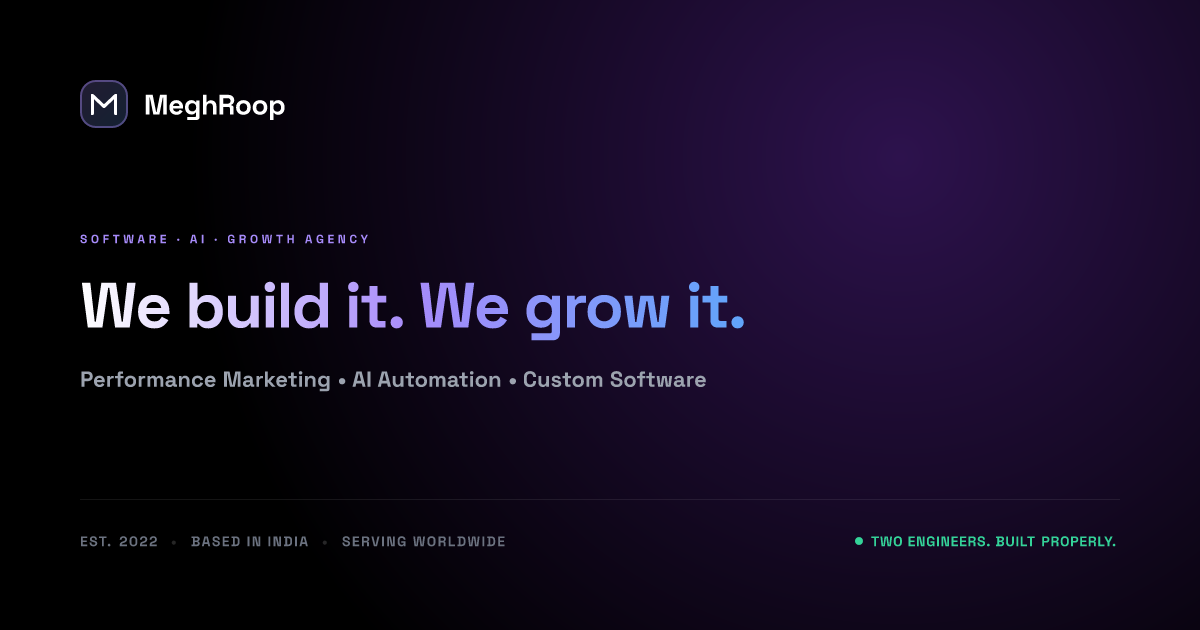
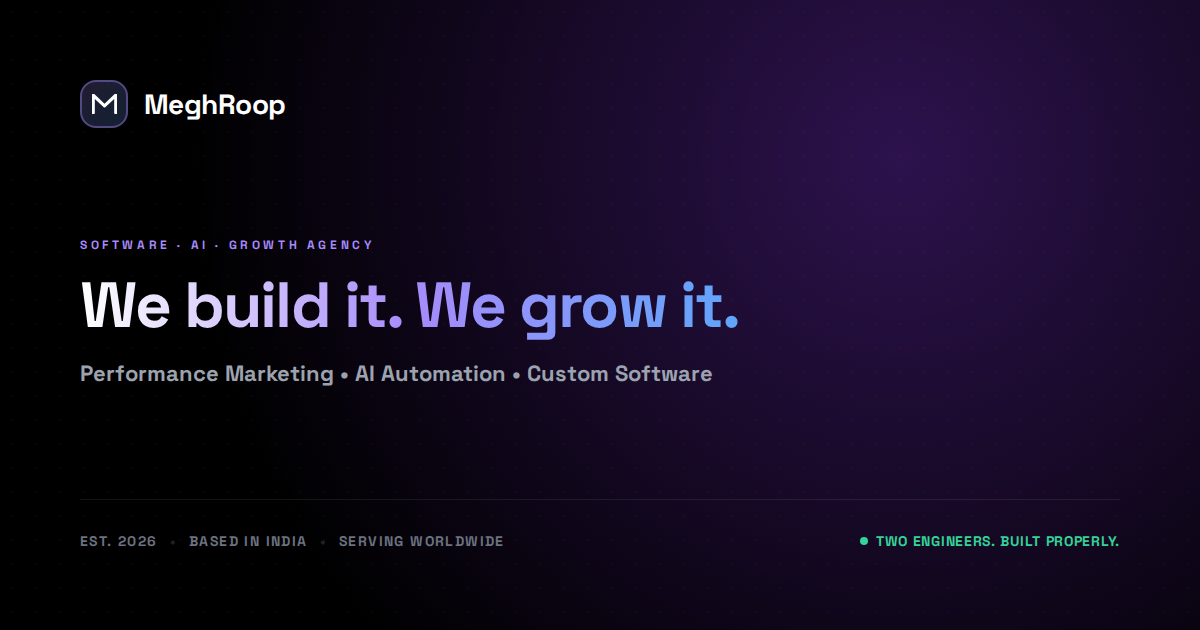
Update founding year 2022 → 2026 across site + regenerate OG/social share images
- opengraph-image.tsx, JsonLd schema, 6 service-page schemas, chatbot, MCPCTA, About
- Regenerate og-image (png/jpg), add og-twitter/og-square/og-story + page-specific OG variants (Est. 2026)

diff --git a/components/sections/About.tsx b/components/sections/About.tsx
@@ -54,12 +54,12 @@ export default function About() {
           {/* Stat — Years */}
           <StatCard
             icon={Clock}
-            value="2+"
-            label="Years in"
-            sub="Started in 2022. Not slowing down."
+            value="New"
+            label="Just getting started"
+            sub="Started in 2026. Full conviction."
             gradient="from-purple-500/20 to-blue-500/20"
             iconColor="text-purple-400"
-            bullets={['2022 — One laptop, zero clients, full conviction', '2023 — 15 projects shipped, 0 refunds', '2024 — 30+ and genuinely enjoying it']}
+            bullets={['2026 — One laptop, zero clients, full conviction', 'Building brands that need a presence', 'Building products that need a brain']}
           />
 
           {/* Stat — Projects */}

diff --git a/components/common/JsonLd.tsx b/components/common/JsonLd.tsx
@@ -12,10 +12,10 @@ const organizationSchema = {
   logo: `${SITE_URL}/favicon-512.png`,
   email: '[email redacted]',
   telephone: '[phone redacted]',
-  foundingDate: '2022',
+  foundingDate: '2026',
   slogan: 'From awareness to automation. From code to customers.',
   description:
-    'MeghRoop is a Growth, AI and Software agency. We help businesses grow through performance marketing (Meta Ads, Google Ads, SEO, social media, content), AI agents and automation (n8n, WhatsApp, CRM), custom software and SaaS development, Shopify and WordPress development, and branding and creative. Founded in 2022, based in India, serving clients worldwide.',
+    'MeghRoop is a Growth, AI and Software agency. We help businesses grow through performance marketing (Meta Ads, Google Ads, SEO, social media, content), AI agents and automation (n8n, WhatsApp, CRM), custom software and SaaS development, Shopify and WordPress development, and branding and creative. Founded in 2026, based in India, serving clients worldwide.',
   numberOfEmployees: { '@type': 'QuantitativeValue', value: 2 },
   founder: [
     {

diff --git a/app/ai-agents/agentic-automation/layout.tsx b/app/ai-agents/agentic-automation/layout.tsx
@@ -27,7 +27,7 @@ export default function Layout({ children }: { children: React.ReactNode }) {
       
       <script
         type="application/ld+json"
-        dangerouslySetInnerHTML={{ __html: JSON.stringify({"@context":"https://schema.org","@type":"Service","serviceType":"Agentic process automation","name":"Agentic Process Automation","description":"AI agents that reason through exceptions, read unstructured data, and handle the messy stuff your team shouldn't be doing manually.","provider":{"@type":"Organization","name":"MeghRoop","url":"https://meghroop.tech","email":"[email redacted]","telephone":"[phone redacted]","address":{"@type":"PostalAddress","streetAddress":"Jhotwara","addressLocality":"Jaipur","addressRegion":"Rajasthan","postalCode":"302012","addressCountry":"IN"},"foundingDate":"2022"},"areaServed":"Worldwide","url":"https://meghroop.tech/agentic-automation"}) }}
+        dangerouslySetInnerHTML={{ __html: JSON.stringify({"@context":"https://schema.org","@type":"Service","serviceType":"Agentic process automation","name":"Agentic Process Automation","description":"AI agents that reason through exceptions, read unstructured data, and handle the messy stuff your team shouldn't be doing manually.","provider":{"@type":"Organization","name":"MeghRoop","url":"https://meghroop.tech","email":"[email redacted]","telephone":"[phone redacted]","address":{"@type":"PostalAddress","streetAddress":"Jhotwara","addressLocality":"Jaipur","addressRegion":"Rajasthan","postalCode":"302012","addressCountry":"IN"},"foundingDate":"2026"},"areaServed":"Worldwide","url":"https://meghroop.tech/agentic-automation"}) }}
       />
       {children}
     </>

diff --git a/app/ai-agents/ai-integration/layout.tsx b/app/ai-agents/ai-integration/layout.tsx
@@ -27,7 +27,7 @@ export default function Layout({ children }: { children: React.ReactNode }) {
       
       <script
         type="application/ld+json"
-        dangerouslySetInnerHTML={{ __html: JSON.stringify({"@context":"https://schema.org","@type":"Service","name":"AI Integration Services","description":"We integrate AI into your existing CRM, ERP, helpdesk, and collaboration tools. MCP servers, API connections, and intelligent automation — without replacing your stack.","provider":{"@type":"Organization","name":"MeghRoop","url":"https://meghroop.tech","email":"[email redacted]","telephone":"[phone redacted]","address":{"@type":"PostalAddress","streetAddress":"Jhotwara","addressLocality":"Jaipur","addressRegion":"Rajasthan","postalCode":"302012","addressCountry":"IN"},"foundingDate":"2022"},"serviceType":"AI Integration & Automation","areaServed":"Worldwide","hasOfferCatalog":{"@type":"OfferCatalog","name":"AI Integration Services","itemListElement":[{"@type":"Offer","itemOffered":{"@type":"Service","name":"CRM AI Integration"}},{"@type":"Offer","itemOffered":{"@type":"Service","name":"ERP AI Integration"}},{"@type":"Offer","itemOffered":{"@type":"Service","name":"MCP Server Development"}},{"@type":"Offer","itemOffered":{"@type":"Service","name":"Legacy System AI Bridge"}}]}}) }}
+        dangerouslySetInnerHTML={{ __html: JSON.stringify({"@context":"https://schema.org","@type":"Service","name":"AI Integration Services","description":"We integrate AI into your existing CRM, ERP, helpdesk, and collaboration tools. MCP servers, API connections, and intelligent automation — without replacing your stack.","provider":{"@type":"Organization","name":"MeghRoop","url":"https://meghroop.tech","email":"[email redacted]","telephone":"[phone redacted]","address":{"@type":"PostalAddress","streetAddress":"Jhotwara","addressLocality":"Jaipur","addressRegion":"Rajasthan","postalCode":"302012","addressCountry":"IN"},"foundingDate":"2026"},"serviceType":"AI Integration & Automation","areaServed":"Worldwide","hasOfferCatalog":{"@type":"OfferCatalog","name":"AI Integration Services","itemListElement":[{"@type":"Offer","itemOffered":{"@type":"Service","name":"CRM AI Integration"}},{"@type":"Offer","itemOffered":{"@type":"Service","name":"ERP AI Integration"}},{"@type":"Offer","itemOffered":{"@type":"Service","name":"MCP Server Development"}},{"@type":"Offer","itemOffered":{"@type":"Service","name":"Legacy System AI Bridge"}}]}}) }}
       />
       {children}
     </>

diff --git a/app/ai-agents/ai-strategy-audit/layout.tsx b/app/ai-agents/ai-strategy-audit/layout.tsx
@@ -27,7 +27,7 @@ export default function Layout({ children }: { children: React.ReactNode }) {
       
       <script
         type="application/ld+json"
-        dangerouslySetInnerHTML={{ __html: JSON.stringify({"@context":"https://schema.org","@type":"Service","name":"AI Strategy & Readiness Audit","description":"A 3-week deep-dive into your business, data, and workflows. We map where AI actually fits, score use cases by ROI, and deliver a prioritized 90-day roadmap.","provider":{"@type":"Organization","name":"MeghRoop","url":"https://meghroop.tech","email":"[email redacted]","telephone":"[phone redacted]","address":{"@type":"PostalAddress","streetAddress":"Jhotwara","addressLocality":"Jaipur","addressRegion":"Rajasthan","postalCode":"302012","addressCountry":"IN"},"foundingDate":"2022"},"serviceType":"AI readiness audit","areaServed":"Worldwide","hasOfferCatalog":{"@type":"OfferCatalog","name":"AI Audit Services","itemListElement":[{"@type":"Offer","itemOffered":{"@type":"Service","name":"Workflow Mapping"}},{"@type":"Offer","itemOffered":{"@type":"Service","name":"Data Readiness Check"}},{"@type":"Offer","itemOffered":{"@type":"Service","name":"Use-Case Scoring"}},{"@type":"Offer","itemOffered":{"@type":"Service","name":"90-Day Roadmap"}}]}}) }}
+        dangerouslySetInnerHTML={{ __html: JSON.stringify({"@context":"https://schema.org","@type":"Service","name":"AI Strategy & Readiness Audit","description":"A 3-week deep-dive into your business, data, and workflows. We map where AI actually fits, score use cases by ROI, and deliver a prioritized 90-day roadmap.","provider":{"@type":"Organization","name":"MeghRoop","url":"https://meghroop.tech","email":"[email redacted]","telephone":"[phone redacted]","address":{"@type":"PostalAddress","streetAddress":"Jhotwara","addressLocality":"Jaipur","addressRegion":"Rajasthan","postalCode":"302012","addressCountry":"IN"},"foundingDate":"2026"},"serviceType":"AI readiness audit","areaServed":"Worldwide","hasOfferCatalog":{"@type":"OfferCatalog","name":"AI Audit Services","itemListElement":[{"@type":"Offer","itemOffered":{"@type":"Service","name":"Workflow Mapping"}},{"@type":"Offer","itemOffered":{"@type":"Service","name":"Data Readiness Check"}},{"@type":"Offer","itemOffered":{"@type":"Service","name":"Use-Case Scoring"}},{"@type":"Offer","itemOffered":{"@type":"Service","name":"90-Day Roadmap"}}]}}) }}
       />
       {children}
     </>

diff --git a/app/ai-agents/ai-voice-agents/layout.tsx b/app/ai-agents/ai-voice-agents/layout.tsx
@@ -27,7 +27,7 @@ export default function Layout({ children }: { children: React.ReactNode }) {
       
       <script
         type="application/ld+json"
-        dangerouslySetInnerHTML={{ __html: JSON.stringify({"@context":"https://schema.org","@type":"Service","name":"AI Voice Agents","description":"Human-sounding AI voice agents for inbound support, outbound qualification, appointment booking, and collections. 24/7 availability in Hindi, English, and regional languages with sub-second response times.","provider":{"@type":"Organization","name":"MeghRoop","url":"https://meghroop.tech","email":"[email redacted]","telephone":"[phone redacted]","address":{"@type":"PostalAddress","streetAddress":"Jhotwara","addressLocality":"Jaipur","addressRegion":"Rajasthan","postalCode":"302012","addressCountry":"IN"},"foundingDate":"2022"},"areaServed":{"@type":"Place","name":"Worldwide"},"serviceType":"AI Voice Agent Development","hasOfferCatalog":{"@type":"OfferCatalog","name":"AI Voice Agent Services","itemListElement":[{"@type":"Offer","itemOffered":{"@type":"Service","name":"Inbound Support Voice Agents"}},{"@type":"Offer","itemOffered":{"@type":"Service","name":"Appointment Booking Voice Agents"}},{"@type":"Offer","itemOffered":{"@type":"Service","name":"Lead Qualification Voice Agents"}},{"@type":"Offer","itemOffered":{"@type":"Service","name":"Collections Voice Agents"}},{"@type":"Offer","itemOffered":{"@type":"Service","name":"Outbound Survey Voice Agents"}}]}}) }}
+        dangerouslySetInnerHTML={{ __html: JSON.stringify({"@context":"https://schema.org","@type":"Service","name":"AI Voice Agents","description":"Human-sounding AI voice agents for inbound support, outbound qualification, appointment booking, and collections. 24/7 availability in Hindi, English, and regional languages with sub-second response times.","provider":{"@type":"Organization","name":"MeghRoop","url":"https://meghroop.tech","email":"[email redacted]","telephone":"[phone redacted]","address":{"@type":"PostalAddress","streetAddress":"Jhotwara","addressLocality":"Jaipur","addressRegion":"Rajasthan","postalCode":"302012","addressCountry":"IN"},"foundingDate":"2026"},"areaServed":{"@type":"Place","name":"Worldwide"},"serviceType":"AI Voice Agent Development","hasOfferCatalog":{"@type":"OfferCatalog","name":"AI Voice Agent Services","itemListElement":[{"@type":"Offer","itemOffered":{"@type":"Service","name":"Inbound Support Voice Agents"}},{"@type":"Offer","itemOffered":{"@type":"Service","name":"Appointment Booking Voice Agents"}},{"@type":"Offer","itemOffered":{"@type":"Service","name":"Lead Qualification Voice Agents"}},{"@type":"Offer","itemOffered":{"@type":"Service","name":"Collections Voice Agents"}},{"@type":"Offer","itemOffered":{"@type":"Service","name":"Outbound Survey Voice Agents"}}]}}) }}
       />
       {children}
     </>

diff --git a/app/ai-agents/custom-ai-agents/layout.tsx b/app/ai-agents/custom-ai-agents/layout.tsx
@@ -27,7 +27,7 @@ export default function Layout({ children }: { children: React.ReactNode }) {
       
       <script
         type="application/ld+json"
-        dangerouslySetInnerHTML={{ __html: JSON.stringify({"@context":"https://schema.org","@type":"Service","name":"Custom AI Agent Development","description":"Bespoke AI agents that reason, plan, and execute — wired into your tools, your data, and your real workflows. Production-grade systems with guardrails, fallback logic, and human-in-the-loop gates.","provider":{"@type":"Organization","name":"MeghRoop","url":"https://meghroop.tech","email":"[email redacted]","telephone":"[phone redacted]","address":{"@type":"PostalAddress","streetAddress":"Jhotwara","addressLocality":"Jaipur","addressRegion":"Rajasthan","postalCode":"302012","addressCountry":"IN"},"foundingDate":"2022"},"serviceType":"AI Agent Development","areaServed":"Worldwide","hasOfferCatalog":{"@type":"OfferCatalog","name":"AI Agent Services","itemListElement":[{"@type":"Offer","itemOffered":{"@type":"Service","name":"Sales Research Agent"}},{"@type":"Offer","itemOffered":{"@type":"Service","name":"Support Resolution Agent"}},{"@type":"Offer","itemOffered":{"@type":"Service","name":"Data Processing Agent"}},{"@type":"Offer","itemOffered":{"@type":"Service","name":"Internal Ops Agent"}},{"@type":"Offer","itemOffered":{"@type":"Service","name":"Research & Analysis Agent"}},{"@type":"Offer","itemOffered":{"@type":"Service","name":"Content Intelligence Agent"}}]}}) }}
+        dangerouslySetInnerHTML={{ __html: JSON.stringify({"@context":"https://schema.org","@type":"Service","name":"Custom AI Agent Development","description":"Bespoke AI agents that reason, plan, and execute — wired into your tools, your data, and your real workflows. Production-grade systems with guardrails, fallback logic, and human-in-the-loop gates.","provider":{"@type":"Organization","name":"MeghRoop","url":"https://meghroop.tech","email":"[email redacted]","telephone":"[phone redacted]","address":{"@type":"PostalAddress","streetAddress":"Jhotwara","addressLocality":"Jaipur","addressRegion":"Rajasthan","postalCode":"302012","addressCountry":"IN"},"foundingDate":"2026"},"serviceType":"AI Agent Development","areaServed":"Worldwide","hasOfferCatalog":{"@type":"OfferCatalog","name":"AI Agent Services","itemListElement":[{"@type":"Offer","itemOffered":{"@type":"Service","name":"Sales Research Agent"}},{"@type":"Offer","itemOffered":{"@type":"Service","name":"Support Resolution Agent"}},{"@type":"Offer","itemOffered":{"@type":"Service","name":"Data Processing Agent"}},{"@type":"Offer","itemOffered":{"@type":"Service","name":"Internal Ops Agent"}},{"@type":"Offer","itemOffered":{"@type":"Service","name":"Research & Analysis Agent"}},{"@type":"Offer","itemOffered":{"@type":"Service","name":"Content Intelligence Agent"}}]}}) }}
       />
       {children}
     </>

diff --git a/app/ai-agents/knowledge-intelligence/layout.tsx b/app/ai-agents/knowledge-intelligence/layout.tsx
@@ -27,7 +27,7 @@ export default function Layout({ children }: { children: React.ReactNode }) {
       
       <script
         type="application/ld+json"
-        dangerouslySetInnerHTML={{ __html: JSON.stringify({"@context":"https://schema.org","@type":"Service","name":"Knowledge Intelligence & Enterprise RAG","description":"Private, citation-backed AI assistants built over enterprise documents and databases. Deploys in your cloud with permission-aware retrieval.","provider":{"@type":"Organization","name":"MeghRoop","url":"https://meghroop.tech","email":"[email redacted]","telephone":"[phone redacted]","address":{"@type":"PostalAddress","streetAddress":"Jhotwara","addressLocality":"Jaipur","addressRegion":"Rajasthan","postalCode":"302012","addressCountry":"IN"},"foundingDate":"2022"},"serviceType":"Document & Knowledge Intelligence","areaServed":"Worldwide","hasOfferCatalog":{"@type":"OfferCatalog","name":"RAG Services","itemListElement":[{"@type":"Offer","itemOffered":{"@type":"Service","name":"Document Audit & Cataloging"}},{"@type":"Offer","itemOffered":{"@type":"Service","name":"AI Ingestion Pipeline"}},{"@type":"Offer","itemOffered":{"@type":"Service","name":"Retrieval & Permission Layer"}},{"@type":"Offer","itemOffered":{"@type":"Service","name":"Secure Cloud Deployment"}}]}}) }}
+        dangerouslySetInnerHTML={{ __html: JSON.stringify({"@context":"https://schema.org","@type":"Service","name":"Knowledge Intelligence & Enterprise RAG","description":"Private, citation-backed AI assistants built over enterprise documents and databases. Deploys in your cloud with permission-aware retrieval.","provider":{"@type":"Organization","name":"MeghRoop","url":"https://meghroop.tech","email":"[email redacted]","telephone":"[phone redacted]","address":{"@type":"PostalAddress","streetAddress":"Jhotwara","addressLocality":"Jaipur","addressRegion":"Rajasthan","postalCode":"302012","addressCountry":"IN"},"foundingDate":"2026"},"serviceType":"Document & Knowledge Intelligence","areaServed":"Worldwide","hasOfferCatalog":{"@type":"OfferCatalog","name":"RAG Services","itemListElement":[{"@type":"Offer","itemOffered":{"@type":"Service","name":"Document Audit & Cataloging"}},{"@type":"Offer","itemOffered":{"@type":"Service","name":"AI Ingestion Pipeline"}},{"@type":"Offer","itemOffered":{"@type":"Service","name":"Retrieval & Permission Layer"}},{"@type":"Offer","itemOffered":{"@type":"Service","name":"Secure Cloud Deployment"}}]}}) }}
       />
       {children}
     </>

diff --git a/app/ai-agents/sales-ai/layout.tsx b/app/ai-agents/sales-ai/layout.tsx
@@ -27,7 +27,7 @@ export default function Layout({ children }: { children: React.ReactNode }) {
       
       <script
         type="application/ld+json"
-        dangerouslySetInnerHTML={{ __html: JSON.stringify({"@context":"https://schema.org","@type":"Service","name":"Sales Intelligence & Outreach Automation","description":"Signal-triggered, AI-researched cold outreach that fills your pipeline with qualified meetings. No spray-and-pray.","provider":{"@type":"Organization","name":"MeghRoop","url":"https://meghroop.tech","email":"[email redacted]","telephone":"[phone redacted]","foundingDate":"2022","address":{"@type":"PostalAddress","streetAddress":"Jhotwara","addressLocality":"Jaipur","addressRegion":"Rajasthan","postalCode":"302012","addressCountry":"IN"}},"areaServed":{"@type":"Place","name":"Worldwide"},"serviceType":"Sales Intelligence & Outreach Automation","hasOfferCatalog":{"@type":"OfferCatalog","name":"Sales AI Services","itemListElement":[{"@type":"Offer","itemOffered":{"@type":"Service","name":"Signal-Triggered Outbound"}},{"@type":"Offer","itemOffered":{"@type":"Service","name":"Multi-Channel Outreach"}},{"@type":"Offer","itemOffered":{"@type":"Service","name":"AI-Powered Sales Intelligence"}}]}}) }}
+        dangerouslySetInnerHTML={{ __html: JSON.stringify({"@context":"https://schema.org","@type":"Service","name":"Sales Intelligence & Outreach Automation","description":"Signal-triggered, AI-researched cold outreach that fills your pipeline with qualified meetings. No spray-and-pray.","provider":{"@type":"Organization","name":"MeghRoop","url":"https://meghroop.tech","email":"[email redacted]","telephone":"[phone redacted]","foundingDate":"2026","address":{"@type":"PostalAddress","streetAddress":"Jhotwara","addressLocality":"Jaipur","addressRegion":"Rajasthan","postalCode":"302012","addressCountry":"IN"}},"areaServed":{"@type":"Place","name":"Worldwide"},"serviceType":"Sales Intelligence & Outreach Automation","hasOfferCatalog":{"@type":"OfferCatalog","name":"Sales AI Services","itemListElement":[{"@type":"Offer","itemOffered":{"@type":"Service","name":"Signal-Triggered Outbound"}},{"@type":"Offer","itemOffered":{"@type":"Service","name":"Multi-Channel Outreach"}},{"@type":"Offer","itemOffered":{"@type":"Service","name":"AI-Powered Sales Intelligence"}}]}}) }}
       />
       {children}
     </>

diff --git a/app/opengraph-image.tsx b/app/opengraph-image.tsx
@@ -173,7 +173,7 @@ export default async function Image() {
               textTransform: 'uppercase',
             }}
           >
-            <span>Est. 2022</span>
+            <span>Est. 2026</span>
             <span style={{ color: 'rgba(255,255,255,0.15)' }}>•</span>
             <span>Based in India</span>
             <span style={{ color: 'rgba(255,255,255,0.15)' }}>•</span>

diff --git a/components/sections/MCPCTA.tsx b/components/sections/MCPCTA.tsx
@@ -58,7 +58,7 @@ export default function MCPCTA() {
             {/* Studio tagline */}
             <div className="mt-12 pt-8 border-t border-white/[0.05] flex flex-col sm:flex-row items-center justify-between gap-4 text-xs text-gray-500 font-mono">
               <div>MEGHROOP COGNITIVE SYSTEMS CO.</div>
-              <div>EST. 2022 // INDIA TO THE WORLD</div>
+              <div>EST. 2026 // INDIA TO THE WORLD</div>
             </div>
           </div>
         </motion.div>

diff --git a/data/chatbot-content.ts b/data/chatbot-content.ts
@@ -127,7 +127,7 @@ export const KNOWLEDGE_BASE: Record<string, FAQResponse> = {
   about: {
     keywords: ['about', 'who are you', 'founders', 'team', 'meghansh', 'roop', 'different', 'why'],
     answer:
-      'MeghRoop is a founder-led Growth, AI and Software agency founded in 2022, based in India and serving clients worldwide. You work directly with the people building it — Meghansh & Roop — no account managers, no handoffs, no outsourcing. Growth, AI, software, and branding under one roof, so everything reinforces each other.',
+      'MeghRoop is a founder-led Growth, AI and Software agency founded in 2026, based in India and serving clients worldwide. You work directly with the people building it — Meghansh & Roop — no account managers, no handoffs, no outsourcing. Growth, AI, software, and branding under one roof, so everything reinforces each other.',
     options: ['Book a Call', 'Main Menu'],
   },
   location: {